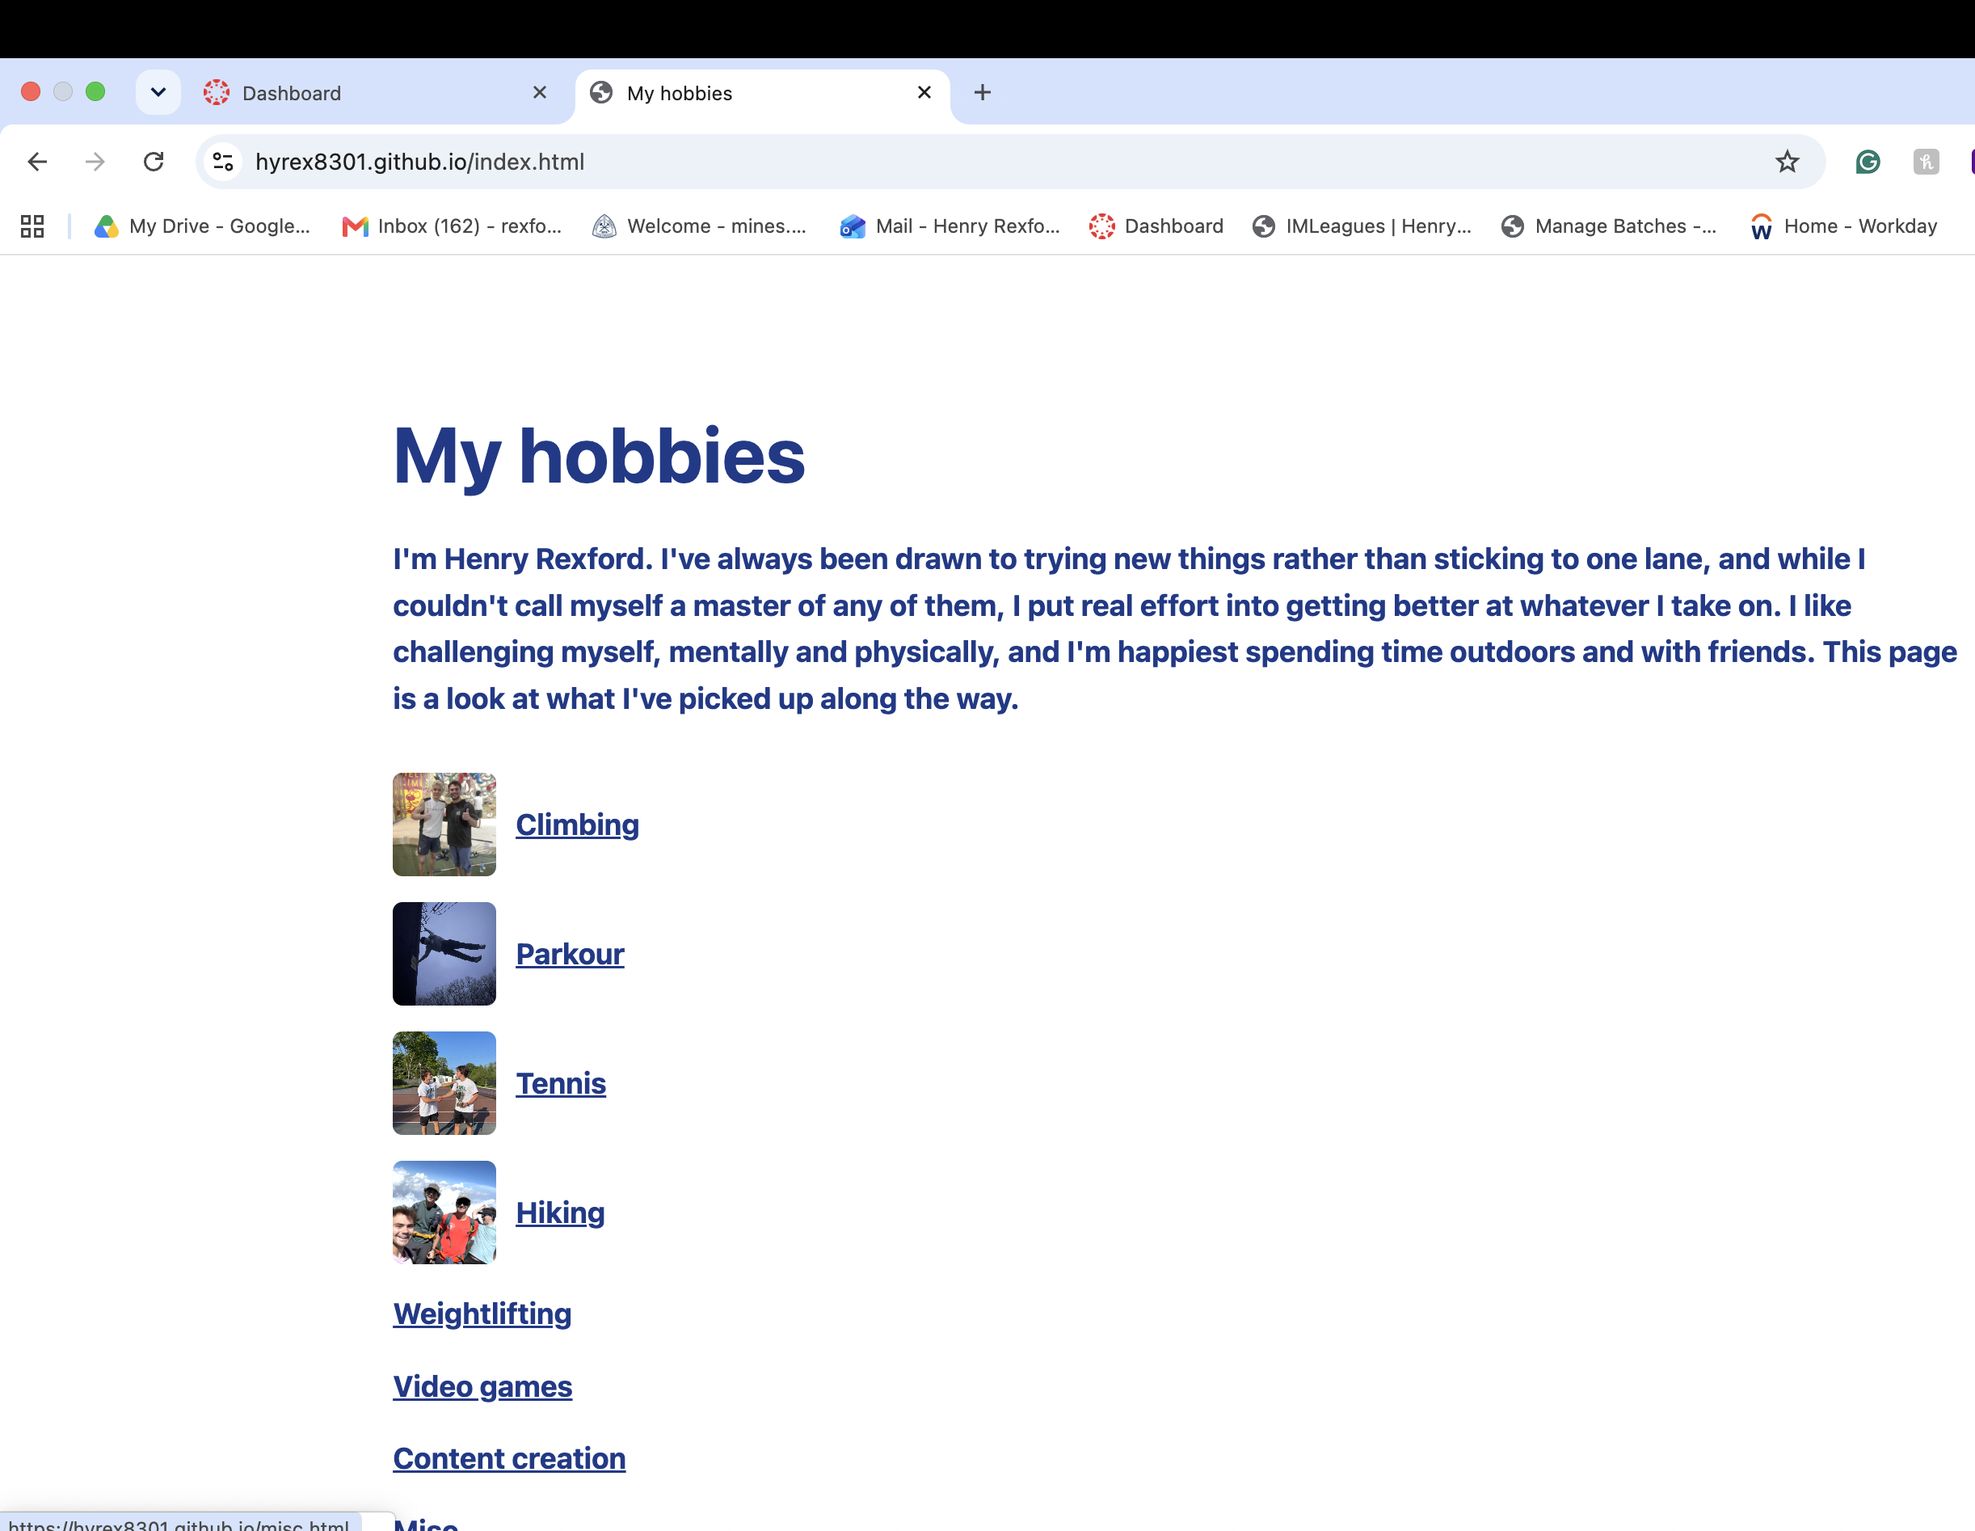
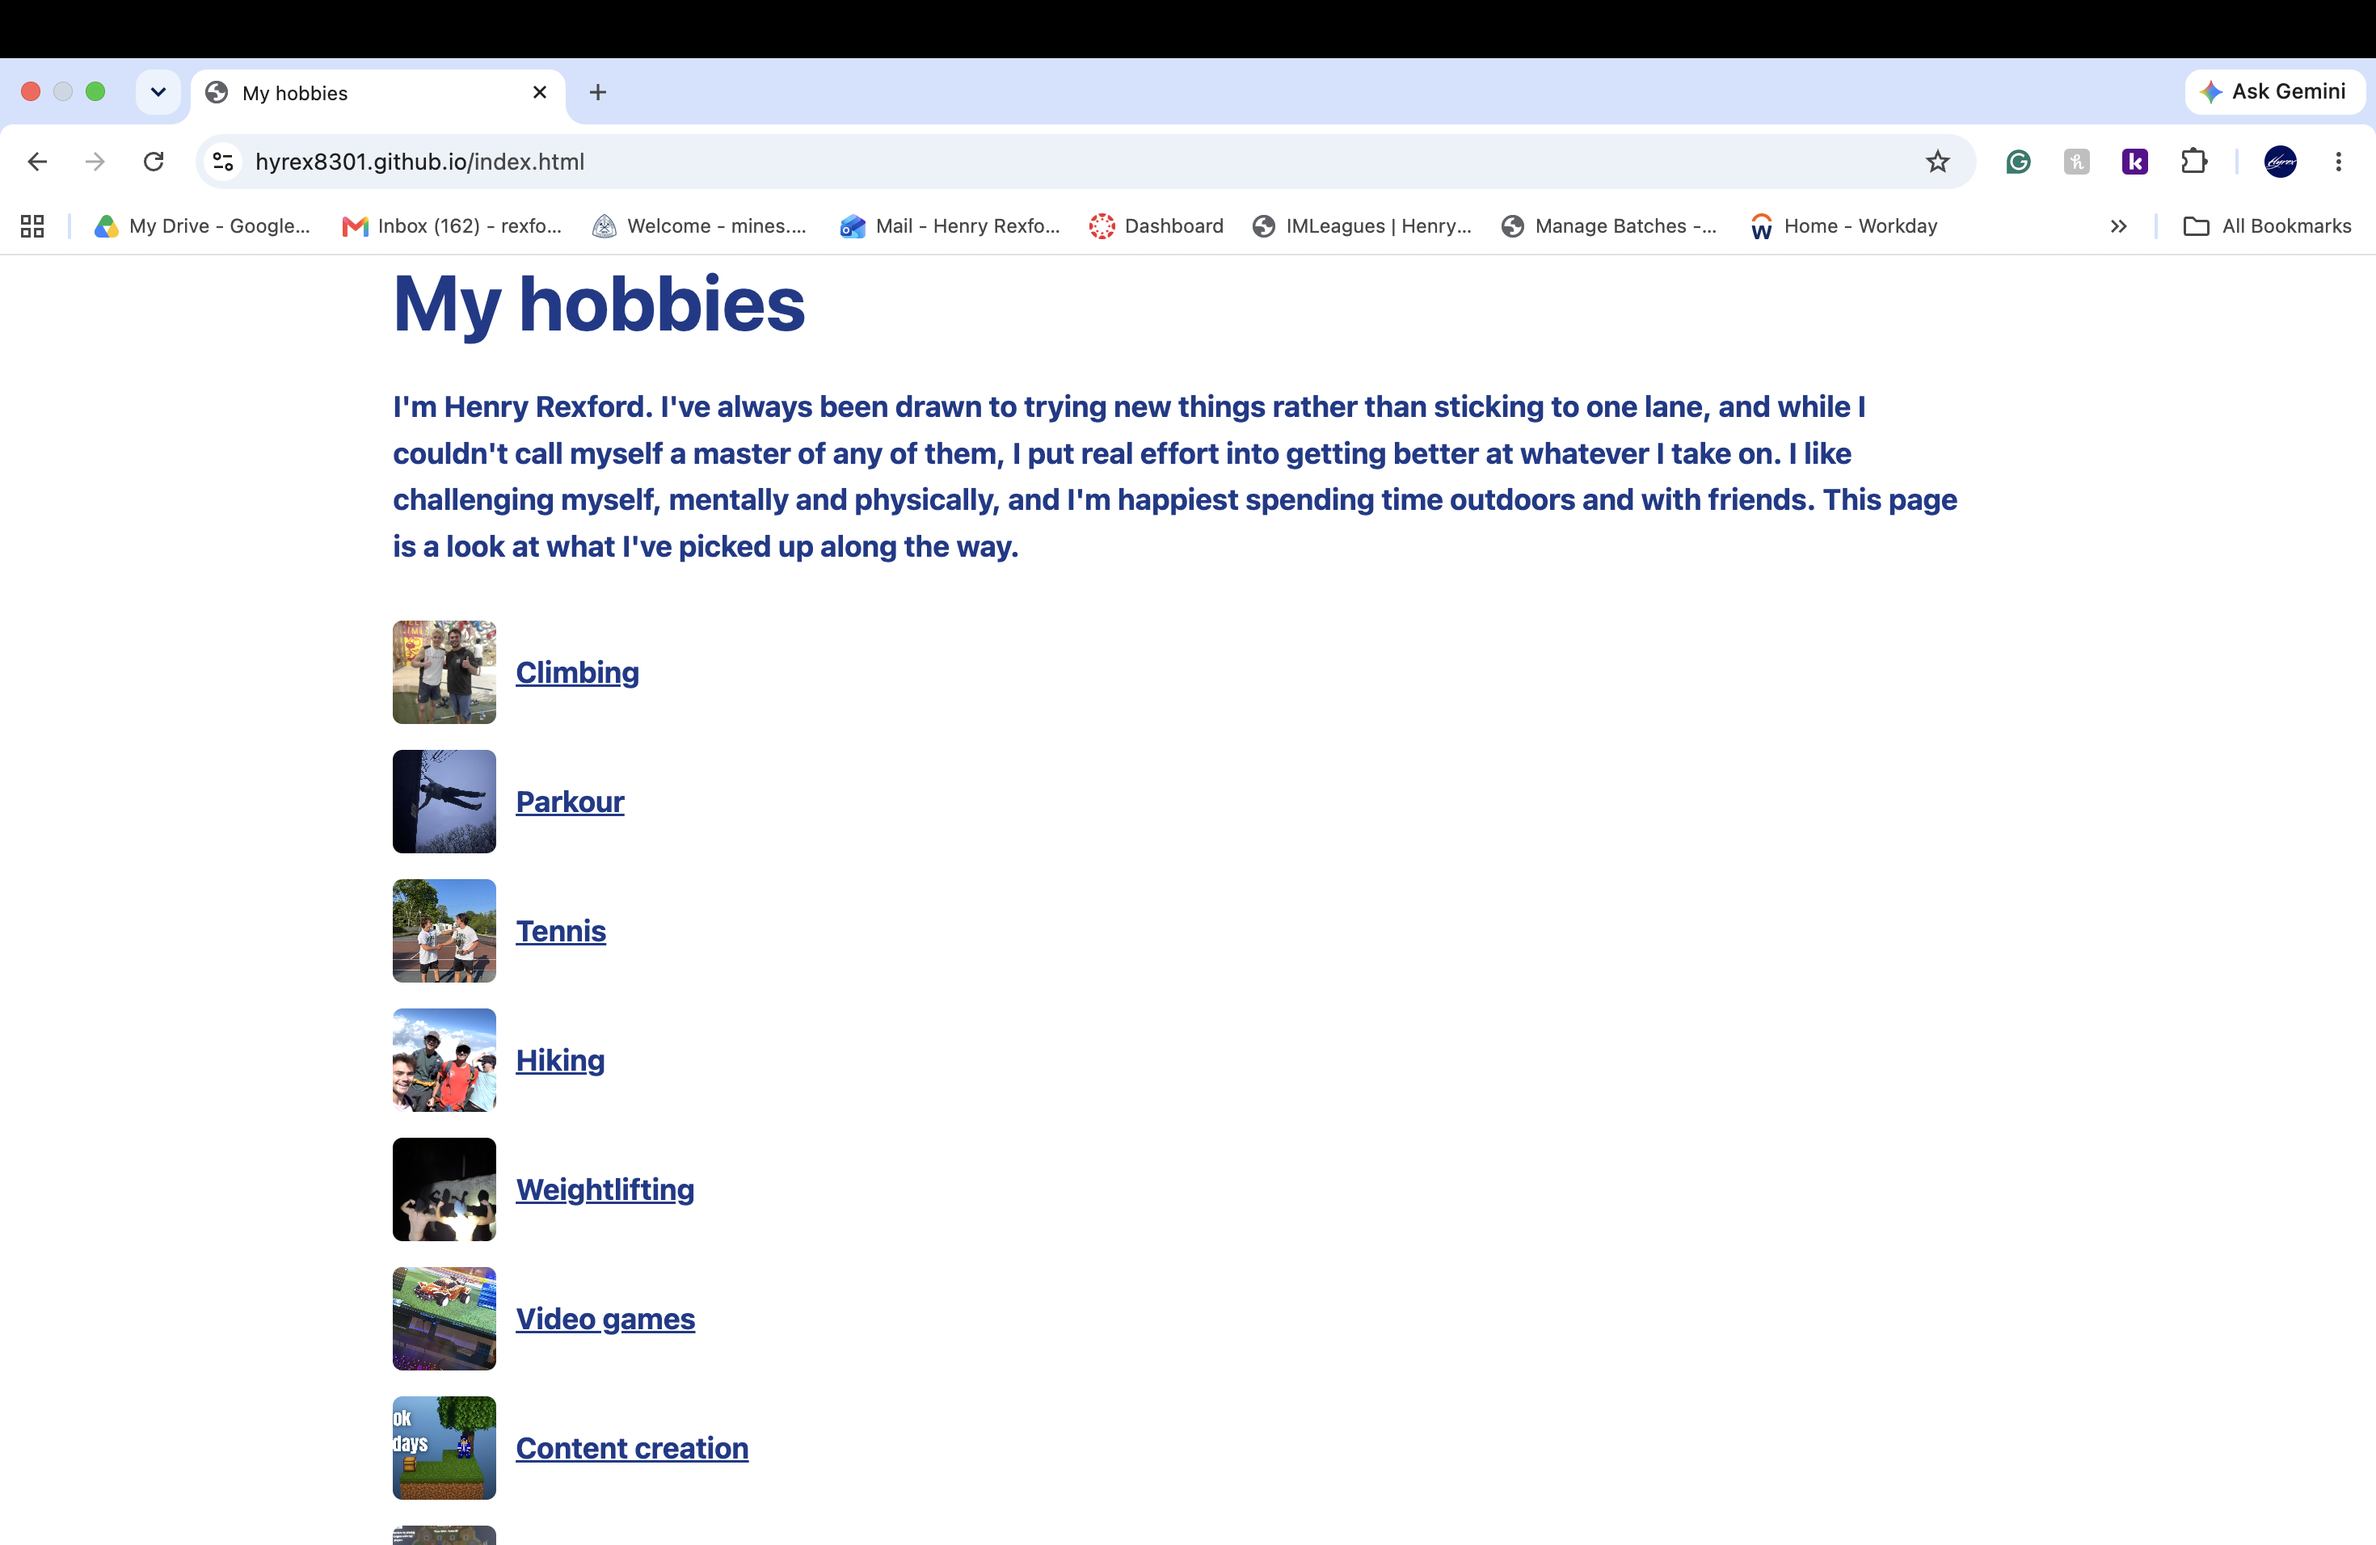
Fix typos in decision log and redo verification against the final live site

diff --git a/DECISIONS.md b/DECISIONS.md
@@ -4,13 +4,13 @@
 
 ## 1. What did you set out to build, and what changed?
 
-I am currently writing this at the very start of the project. I am wanting to make a page of all my present and previous hobbies. Now I am going to have a page per hobbie instead of just having one page. I think this will allow for more creativity in the long run. 
+I am currently writing this at the very start of the project. I am wanting to make a page of all my present and previous hobbies. Now I am going to have a page per hobby instead of just having one page. I think this will allow for more creativity in the long run. Other than that I did what I set out to build and did not change too much.
 
 ---
 
 ## 2. A fork in the road
 
-I found a fork in the road when I was deciding on multiple pages or 1. As of now I decided on 1 page in order to keep the UI more simple and easier to navigate. However, this means that I won't be able to have as much information on all my hobbies. I decided to switch to a main page and then having links to each of my hobbies on seperate pages. This allows for more creativity on each page. I was wondering if I should add videos or not and decided it was worth it. This allows for more expression, a photo is 1000 words but a video is much more. However, this will make the pages more clunky looking and not formated the exact way I would want it. I did not want to use Javascript originally but I decided to change the photo format from a grid to a clickable view of the photos. Claude suggested this would be easiest in JavaScript so I accepted as it is always revertable. I made this decision becuase having a grid of 20+ photos is hard to look at and the click through option should help the user see everything better. 
+I found a fork in the road when I was deciding on multiple pages or 1. As of now I decided on 1 page in order to keep the UI more simple and easier to navigate. However, this means that I won't be able to have as much information on all my hobbies. I decided to switch to a main page and then having links to each of my hobbies on separate pages. This allows for more creativity on each page. I was wondering if I should add videos or not and decided it was worth it. This allows for more expression, a photo is 1000 words but a video is much more. However, this will make the pages more clunky looking and not formatted the exact way I would want it. I did not want to use Javascript originally but I decided to change the photo format from a grid to a clickable view of the photos. Claude suggested this would be easiest in JavaScript so I accepted as it is always revertable. I made this decision because having a grid of 20+ photos is hard to look at and the click through option should help the user see everything better. 
 
 ---
 
@@ -24,10 +24,10 @@ I was working in planning mode and Claude suggested deleting some of my hobbies 
 
 [verification/](verification/) has the screenshot, the fetch output, and what I checked.
 
-I chose to run a python script so the site stays HTML and CSS. I checked this by adding photos, confirming the grid rendered, and reran it to confirm it was repeatable. If the grid did not render then the script failed. I changed from a grid to a gallery and when changing that I made sure that the images and videos were uploaded properly and fully showed up. I also checked all of the links and buttons to make sure they took me to the corerct location and swapped images/videos correctly. Lastly, I checked the main url for my site: https://hyrex8301.github.io. I made sure it was the new version of Main instead of the old showing all the finishing toches I added. The content section would have nothing if it did not update. I also did one last check of everything on the website by hand checking everything before turning it in. 
+I chose to run a python script so the site stays HTML and CSS. I checked this by adding photos, confirming the grid rendered, and reran it to confirm it was repeatable. If the grid did not render then the script failed. I changed from a grid to a gallery and when changing that I made sure that the images and videos were uploaded properly and fully showed up. I also checked all of the links and buttons to make sure they took me to the correct location and swapped images/videos correctly. Lastly, I checked the main url for my site: https://hyrex8301.github.io. I made sure it was the new version of Main instead of the old showing all the finishing touches I added. The content section would have nothing if it did not update. I also did one last check of everything on the website by hand checking everything before turning it in. 
 
 ---
 
 ## 5. What is still wrong
 
-I still think that the arrows on the sides of the images/videos are a little clunky. I would like to have them in a stationary area wile still making it look good for portrait and landscape images. As of now it snaps to the edge of each but that makes it so you can't click super fast through all of the images. I would have users test it and see what works best for them. I of course will want to add more images and videos with more hobbies. That is most likely the first thing that I will do. 
+I still think that the arrows on the sides of the images/videos are a little clunky. I would like to have them in a stationary area while still making it look good for portrait and landscape images. As of now it snaps to the edge of each but that makes it so you can't click super fast through all of the images. I would have users test it and see what works best for them. I of course will want to add more images and videos with more hobbies. That is most likely the first thing that I will do. 

diff --git a/verification/README.md b/verification/README.md
@@ -1,3 +1,3 @@
 URL checked: https://hyrex8301.github.io
-When: Sep 21 11:48
-What would have made this fail: If GitHub Pages was still the old version instead of the new Main it would have shown the older grid pattern instead of the new click through. 
+When: Sep 21 12:55
+What would have made this fail: If GitHub Pages was still the old version instead of the new Main it would not have shown content creation and video games with photos. 
